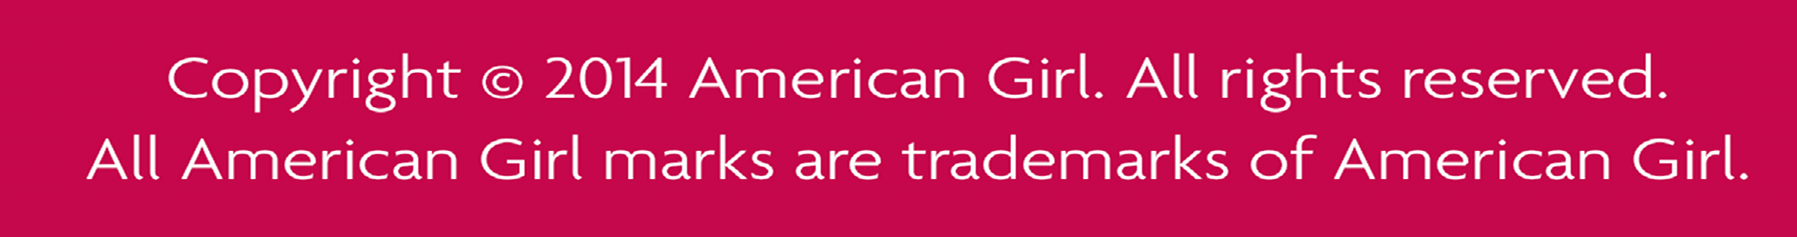
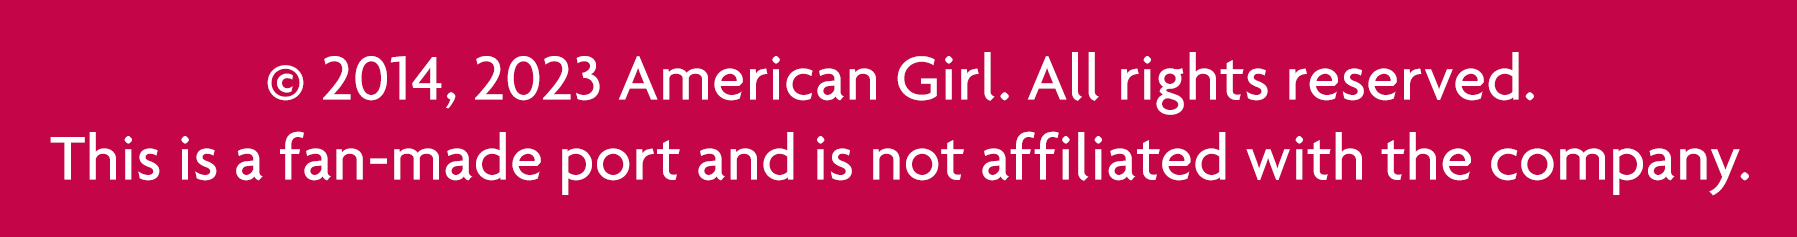
Updated legal disclaimers

Changed region(s): [[0.0312, 0.5612, 0.9661, 0.827], [0.0935, 0.2068, 0.9349, 0.5021]]

diff --git a/README.md b/README.md
@@ -13,10 +13,12 @@ Special thanks to hatoving and ParkingLotGames for their help in making this pos
 * Upgraded to Unity 2018.2.19f1 from Unity 4.3.2
 * Support for platforms such as the PlayStation Vita
 
-## TODO
+## Issues
 * About/Privacy and How to Play text is broken (Depth sorting bug?)
+* PC builds end up with missing sprites and broken logic
+
+## TODO
 * Add a simple localisation script (JSON or something along those lines, idk) to aid in fan translations?
-* PC builds end up with missing sprites (Shader-related issue?)
 * Port the game to modern Android and iOS versions
 
 ## Screenshots
@@ -26,15 +28,17 @@ Special thanks to hatoving and ParkingLotGames for their help in making this pos
 <img src="https://i.imgur.com/57nJhp6.png">
 
 ## Legal stuff
-Original game by American Girl and Splashworks, Inc.
-PlayStation Vita conversion by huckleberrypie and ParkingLotGames.
+Original game by American Girl and Splashworks, Inc.<br />
+PlayStation Vita and ARM64 Android conversions by huckleberrypie and ParkingLotGames.
 
 Built using Unity 2018.2.19f1 with NGUI 2.7.0:
 https://github.com/thomaschampagne/NGUI270Revive
 
-"PLAYSTATION VITA" is a product of Sony Interactive Entertainment Inc.
-"PLAYSTATION" is a registered trademark of Sony Interactive Entertainment Inc.
-"PS VITA" is a trademark of Sony Interactive Entertainment Inc.
-(c) Sony Interactive Entertainment Inc. All rights reserved.
+The developers of this port are not in any way affiliated with American Girl, Mattel, or Splashworks. We do not claim to own any copyrighted material that may appear in this game, nor do we profit off of said material. Furthermore, the developers claim fair use per a DMCA exemption allowing for the reverse-engineering of long-discontinued games for the purposes of research and conservation.
 
-I DO NOT claim ownership of copyrighted files or intellectual property derived from this game; I claim fair use per a DMCA exemption allowing for the reverse-engineering of long-discontinued games for the purposes of research and conservation.
+AMERICAN GIRL®, AG logos, ISABELLE®, ISABELLE PALMER™ are registered trademarks of American Girl, LLC.<br />
+
+PLAYSTATION VITA is a product of Sony Interactive Entertainment Inc.<br />
+PLAYSTATION® is a registered trademark of Sony Interactive Entertainment Inc.<br />
+PS VITA™ is a trademark of Sony Interactive Entertainment Inc.<br />
+© Sony Interactive Entertainment Inc. All rights reserved.
